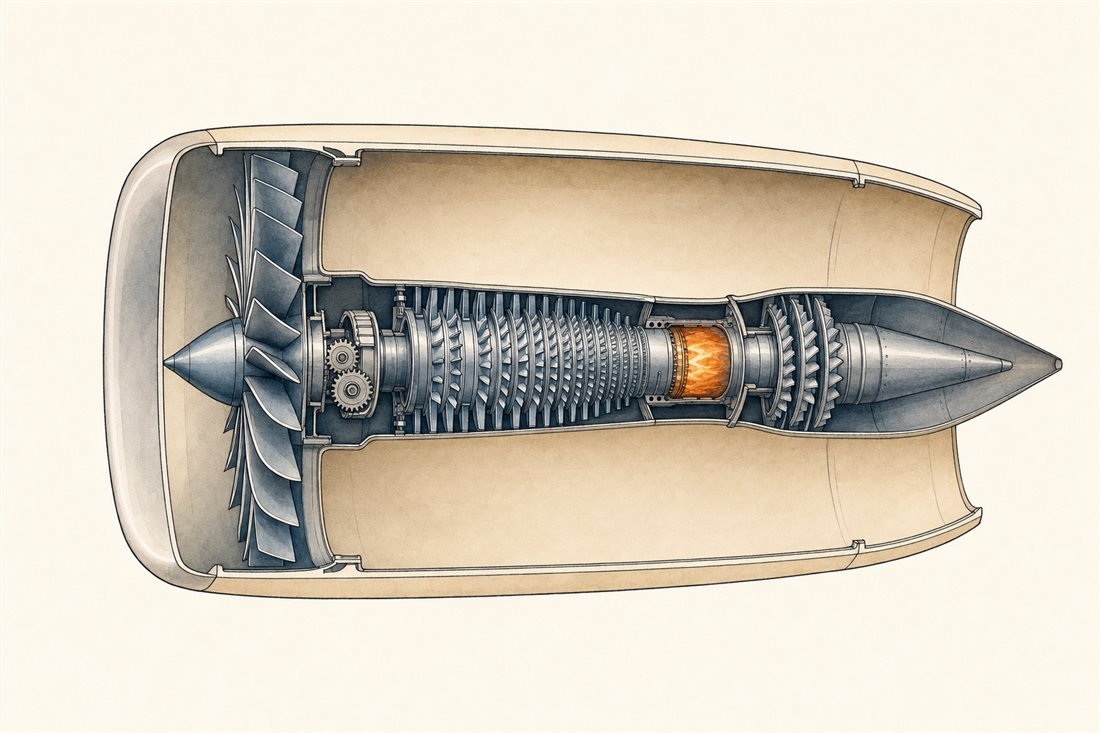
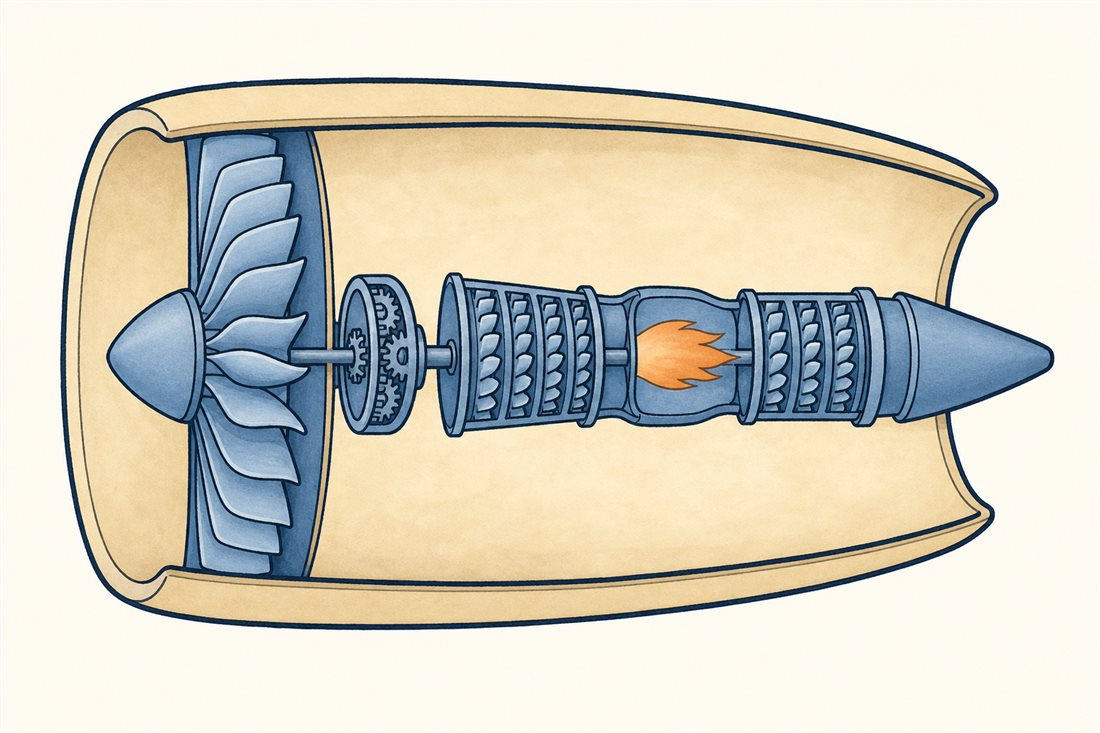
Vol.2 anatomy figures restyled to user-chosen B (flat storybook watercolor): all 9 regenerated with identical structure specs, tap zones re-verified (3 coordinate fixes)
Claude-Session: https://claude.ai/code/session_01LdrDN64y4zHSK3dJdiag7o

diff --git a/site/episodes/v2-04.html b/site/episodes/v2-04.html
@@ -97,15 +97,15 @@
         <svg viewBox="0 0 1536 1024">
           <g class="zone" id="p-bypass"><rect x="500" y="200" width="800" height="165" rx="30"/><rect x="500" y="650" width="800" height="165" rx="30"/></g>
           <g class="zone" id="p-core"><rect x="540" y="380" width="700" height="260" rx="30"/></g>
-          <g class="zone" id="p-fan"><rect x="230" y="190" width="230" height="640" rx="30"/></g>
-          <g class="zone" id="p-gear"><circle cx="490" cy="510" r="95"/></g>
+          <g class="zone" id="p-fan"><rect x="130" y="190" width="230" height="640" rx="30"/></g>
+          <g class="zone" id="p-gear"><circle cx="430" cy="560" r="90"/></g>
           <line x1="300" y1="150" x2="360" y2="240" stroke="#c47a4f" stroke-width="4"/>
           <text x="170" y="120" font-size="38" fill="#5a636d">ファン</text>
           <line x1="1100" y1="150" x2="1050" y2="260" stroke="#c47a4f" stroke-width="4"/>
           <text x="1000" y="120" font-size="38" fill="#5a636d">バイパス流</text>
           <line x1="900" y1="900" x2="920" y2="640" stroke="#c47a4f" stroke-width="4"/>
           <text x="760" y="960" font-size="38" fill="#5a636d">コア（焚き火）</text>
-          <line x1="440" y1="900" x2="480" y2="610" stroke="#c47a4f" stroke-width="4"/>
+          <line x1="430" y1="900" x2="430" y2="660" stroke="#c47a4f" stroke-width="4"/>
           <text x="290" y="960" font-size="38" fill="#5a636d">ギア（GTF）</text>
         </svg>
       </div>

diff --git a/site/episodes/v2-08.html b/site/episodes/v2-08.html
@@ -94,7 +94,7 @@
         <img src="../assets/fig/v2-08-noise.jpg" alt="エンジンナセルの側面図。入口からの音の弧、内壁の音響ライナ、後端のシェブロンと噴流">
         <svg viewBox="0 0 1536 1024">
           <g class="zone" id="p-fansrc"><rect x="20" y="80" width="280" height="860" rx="30"/></g>
-          <g class="zone" id="p-liner"><ellipse cx="390" cy="505" rx="120" ry="210"/></g>
+          <g class="zone" id="p-liner"><ellipse cx="290" cy="505" rx="140" ry="220"/></g>
           <g class="zone" id="p-chev"><rect x="980" y="320" width="220" height="380" rx="30"/></g>
           <g class="zone" id="p-jetsrc"><rect x="1200" y="290" width="330" height="450" rx="30"/></g>
           <line x1="180" y1="120" x2="150" y2="220" stroke="#c47a4f" stroke-width="4"/>

diff --git a/site/episodes/v2-03.html b/site/episodes/v2-03.html
@@ -101,7 +101,7 @@
           <g class="zone" id="p-vtail"><rect x="1170" y="230" width="300" height="250" rx="26"/></g>
           <g class="zone" id="p-htail"><rect x="1220" y="480" width="250" height="80" rx="22"/></g>
           <g class="zone" id="p-cg"><circle cx="700" cy="590" r="70"/></g>
-          <line x1="900" y1="330" x2="880" y2="510" stroke="#c47a4f" stroke-width="4"/>
+          <line x1="900" y1="330" x2="870" y2="555" stroke="#c47a4f" stroke-width="4"/>
           <text x="760" y="300" font-size="38" fill="#5a636d">主翼: もちあげる</text>
           <line x1="450" y1="820" x2="560" y2="690" stroke="#c47a4f" stroke-width="4"/>
           <text x="260" y="880" font-size="38" fill="#5a636d">エンジン</text>

diff --git a/BACKLOG.md b/BACKLOG.md
@@ -20,7 +20,8 @@
 - [x] 01 ひこうきは、空気をまげて とんでいく（2026-07-25 公開・妻の検収待ち。揚力の正体・等時間説の解剖・迎え角と失速。Codexレビュー11件反映、翼上面凝結の実写真つき）
 - [x] 02〜09 一括執筆・公開（2026-07-25 ユーザー指示で一括モード。02 つばさの かたち／03 そらの やじろべえ／04 大きく、ゆっくり なげる（GTF主役級）／05 とりと ぶつかっても、こわれない（重点回）／06 はねの行列／07 とける温度より、あつい部屋／08 うたうエンジン、ふるえる はね／09 エンジンで答え合わせ（2つの同機体対決）。全話: 裏取り=notes/v2-02-09-fact-check.md・Codexレビュー2回38件中35件反映・実物写真8枚（全ライセンス実確認）・水彩章扉とアイコン各8点。**第2巻かんけつ・妻の検収待ち**）
 
-- [x] 第2巻の主解剖図9枚を手書きSVG→Codex水彩イラスト＋SVGタップ領域のハイブリッドに全面刷新（2026-07-25 ユーザー指摘「SVGだと微妙」を受け試作→9枚全て一発合格で展開。原画=ehon/art/fig/・公開=site/assets/fig/。第1巻の図は妻が選んだデザインBのため温存）
+- [x] 第2巻の主解剖図9枚を手書きSVG→Codex生成イラスト＋SVGタップ領域のハイブリッドに全面刷新（2026-07-25 ユーザー指摘「SVGだと微妙」を受け試作→展開）
+  - 画風は4案比較（リアル水彩/えほん風フラット/線画+淡彩/色鉛筆）から**ユーザーが「B えほん風フラット水彩」を選定**。9枚を同画風で再生成し全て検品合格（原画=ehon/art/fig-b/・公開=site/assets/fig/。リアル版マスターはehon/art/fig/に保全）。第1巻の図は妻が選んだデザインBのため温存
 
 ## 読み切り（EX）
 
